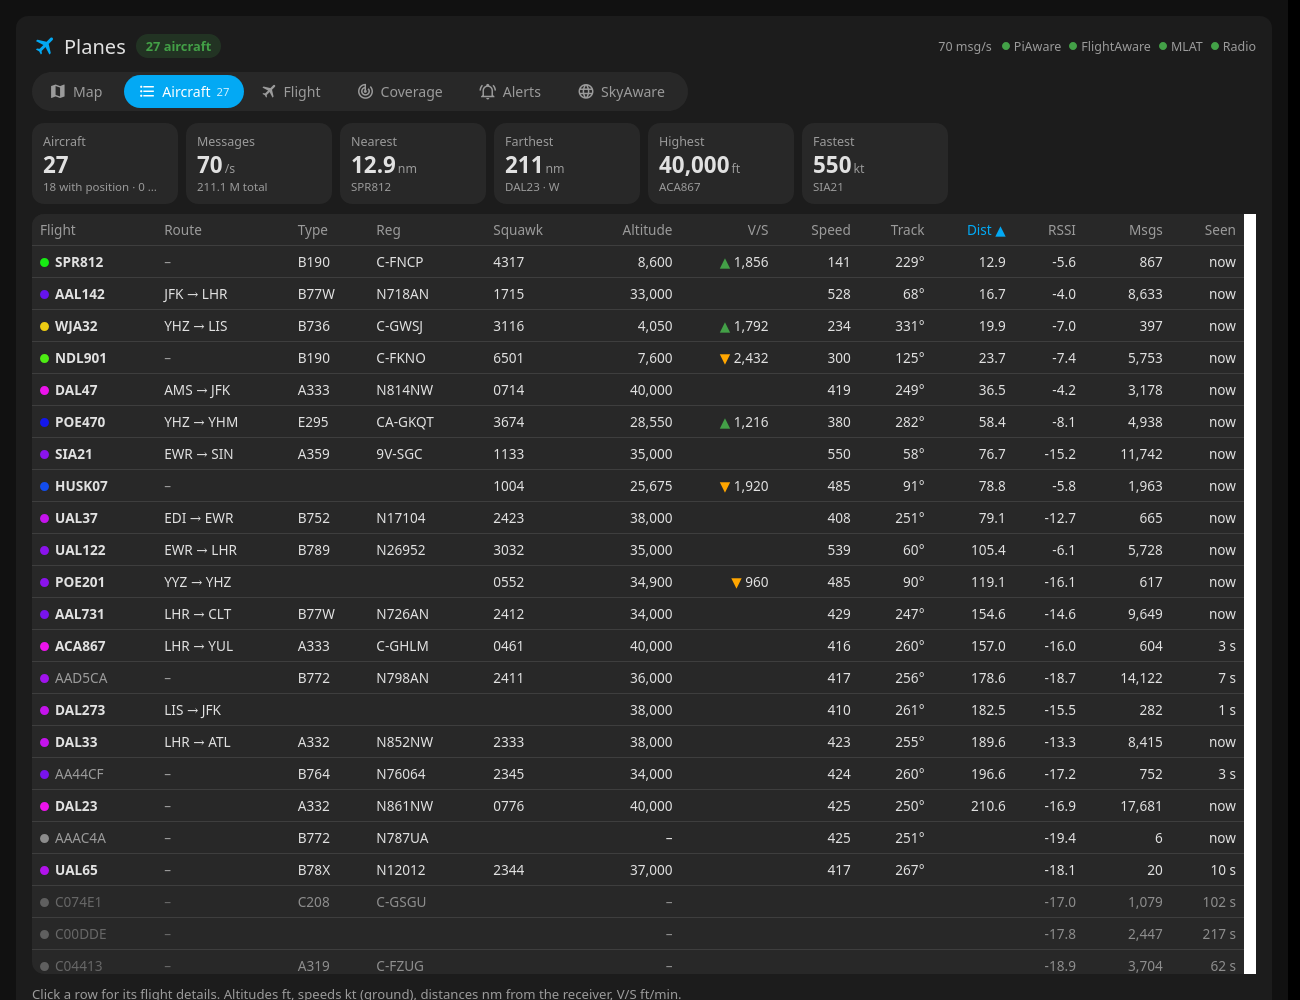
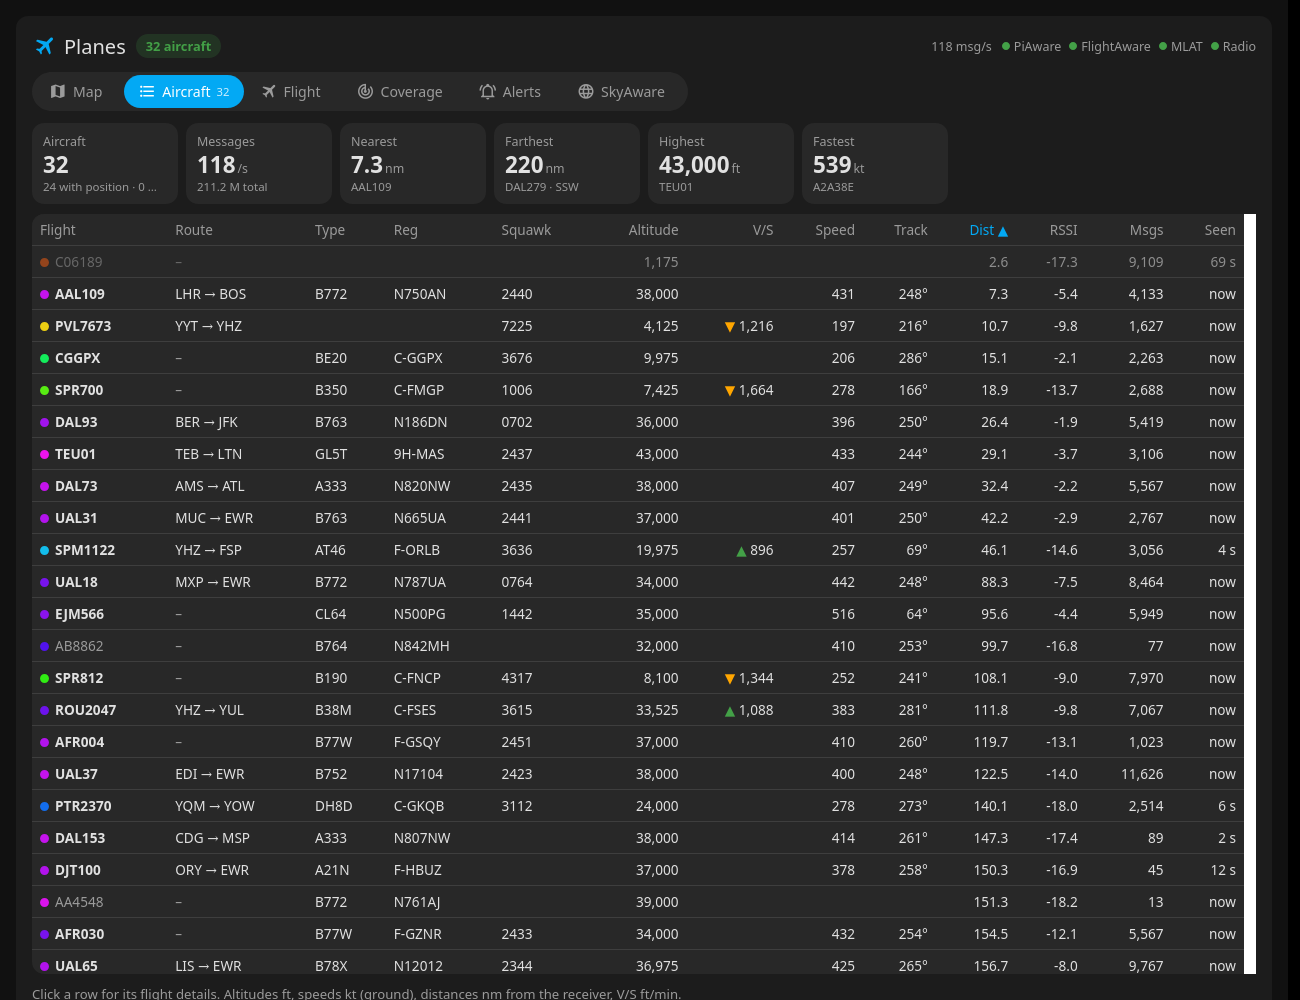
README screenshots: map (dark and light), flight status; card: map labels no longer draw over the popup

diff --git a/dist/skyaware-card.js b/dist/skyaware-card.js
@@ -560,7 +560,7 @@ class SkyAwareCard extends HTMLElement {
         .map { position: relative; height: var(--sa-h); border-radius: 12px; overflow: hidden; background: var(--secondary-background-color);
                touch-action: none; user-select: none; -webkit-user-select: none; cursor: grab; }
         .map.drag { cursor: grabbing; }
-        #tiles { position: absolute; inset: 0; }
+        #tiles { position: absolute; inset: 0; z-index: 0; } /* own stacking context: labels layer stays under the overlays */
         #tiles img { position: absolute; left: 0; top: 0; pointer-events: none; }
         #ov { position: absolute; inset: 0; width: 100%; height: 100%; }
         .ring { fill: none; stroke: var(--sa-ring); stroke-width: 1.2; }

diff --git a/README.md b/README.md
@@ -18,9 +18,15 @@ Two pieces that work together:
 > on your network (the PiAware Pi itself works), kept running with pm2 or systemd. HACS can't install it for you;
 > see [Install → 1. The monitor](#1-the-monitor).
 
+![Map tab: live aircraft with range rings, altitude-coloured trails and a selected flight](docs/map.png)
+
+| Flight status | Light theme |
+|---|---|
+| ![Flight tab: route, progress, estimated arrival and live data](docs/flight.png) | ![Map tab in Home Assistant's light theme](docs/map-light.png) |
+
 | Coverage | Aircraft | Alerts |
 |---|---|---|
-| ![Coverage tab](docs/coverage.png) | ![Aircraft tab](docs/aircraft.png) | ![Alerts tab](docs/alerts.png) |
+| ![Coverage tab: polar range chart by altitude band](docs/coverage.png) | ![Aircraft tab: sortable list with routes and types](docs/aircraft.png) | ![Alerts tab: what to alert on, flights to watch, recent alerts](docs/alerts.png) |
 
 ## Features
 
